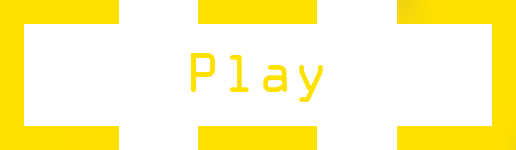
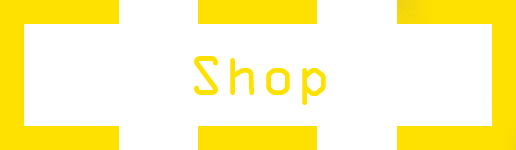
main menu grid fix + fix shop btn

Changed region(s): [[0.3721, 0.3467, 0.6512, 0.6933]]

diff --git a/GEOWARS_SOURCE/core/src/com/group17/geowars/screens/MainMenuScreen.java b/GEOWARS_SOURCE/core/src/com/group17/geowars/screens/MainMenuScreen.java
@@ -36,7 +36,7 @@ public class MainMenuScreen extends MenuScreen implements iHasStage, iSetActive 
             }
         });
 
-        final ImageButton leaderboardButton = newImageButton("Menu_leaderboardicon", GeoWars.WIDTH / 2 - 100, GeoWars.HEIGHT / 2 + 250, 200, 75, new MenuGrid(0,3));
+        final ImageButton leaderboardButton = newImageButton("Menu_leaderboardicon", GeoWars.WIDTH / 2 - 100, GeoWars.HEIGHT / 2 + 250, 200, 75, new MenuGrid(0,1));
         leaderboardButton.addListener(new ChangeListener() {
             @Override
             public void changed(ChangeEvent event, Actor actor) {
@@ -47,7 +47,7 @@ public class MainMenuScreen extends MenuScreen implements iHasStage, iSetActive 
             }
         });
 
-        final ImageButton profileButton = newImageButton("Menu_profileicon", GeoWars.WIDTH/2 - 100 , GeoWars.HEIGHT / 2 + 150, 200, 75, new MenuGrid(0, 1));
+        final ImageButton profileButton = newImageButton("Menu_profileicon", GeoWars.WIDTH/2 - 100 , GeoWars.HEIGHT / 2 + 150, 200, 75, new MenuGrid(0, 2));
         profileButton.addListener(new ChangeListener() {
             @Override
             public void changed(ChangeEvent event, Actor actor) {
@@ -62,7 +62,7 @@ public class MainMenuScreen extends MenuScreen implements iHasStage, iSetActive 
             }
         });
 
-        final ImageButton optionsButton = newImageButton("Menu_optionicon", GeoWars.WIDTH / 2 - 100, GeoWars.HEIGHT / 2-50, 200, 75, new MenuGrid(0, 2));
+        final ImageButton optionsButton = newImageButton("Menu_optionicon", GeoWars.WIDTH / 2 - 100, GeoWars.HEIGHT / 2-50, 200, 75, new MenuGrid(0, 3));
         optionsButton.addListener(new ChangeListener() {
             @Override
             public void changed(ChangeEvent event, Actor actor) {
